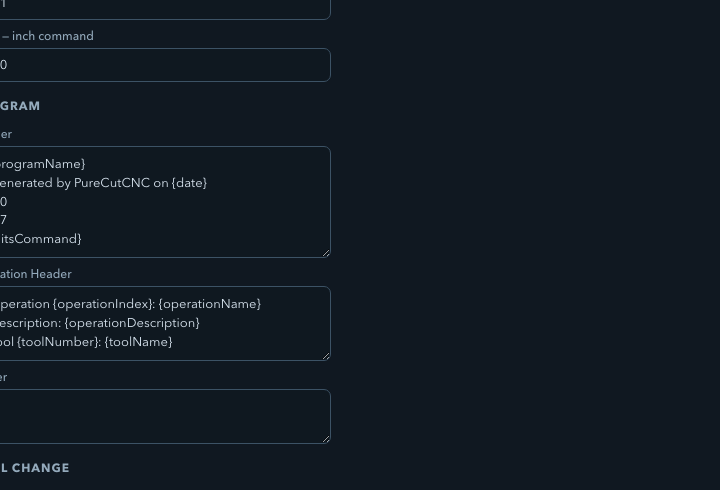
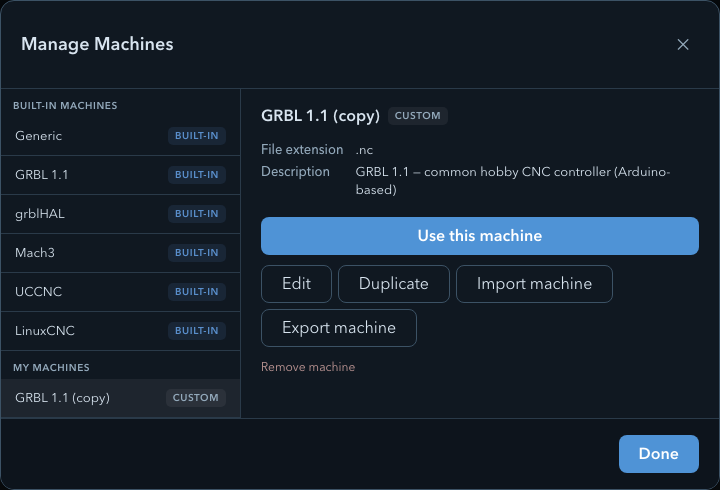
guide: add the smooth-tab multipass figure, fix the machine manager shot
Adds tab-smooth-multipass.png to the Tab Shape section: a front view of three
stepdown passes crossing two identically sized tabs, rectangular beside smooth,
so the difference in motion is visible rather than only described. Taken from
the figure produced for the smooth-tabs work, cropped to the material band.

Replaces cam-machine-manager.png, which was wrong. It captured a fragment of
the machine editor's g-code template fields, because 'Duplicate to edit' opens
the editor rather than duplicating in place. The new shot saves the duplicate
first, so the dialog shows the built-in list beside a populated My Machines and
the wider action set a custom definition carries.

diff --git a/guide/cam-tabs-clamps.html b/guide/cam-tabs-clamps.html
@@ -152,6 +152,10 @@
             <tr><td><span class="ui">Smooth</span></td><td>The tool ramps up and back down across the crossing instead of stepping. Easier breakout, less scarring where the tool re-enters, and noticeably faster on a machine whose Z axis is slower than X and Y.</td></tr>
           </tbody>
         </table>
+        <div class="screenshot-placeholder" data-img="tab-smooth-multipass.png">
+          <div class="ph-label">screenshots/tab-smooth-multipass.png</div>
+          <div class="ph-desc">Front view of the toolpath preview, three stepdown passes crossing two tabs of identical size — the rectangular tab on the left steps up to a shared flat top, the smooth tab on the right ramps to a single peak, with every pass landing on Z Top and returning to its own depth</div>
+        </div>
         <div class="callout--warn callout">
           <strong>A smooth tab of the same size holds less.</strong> Because the tool ramps rather
           than steps, material is removed on the way up and down, so the remaining bridge is smaller
